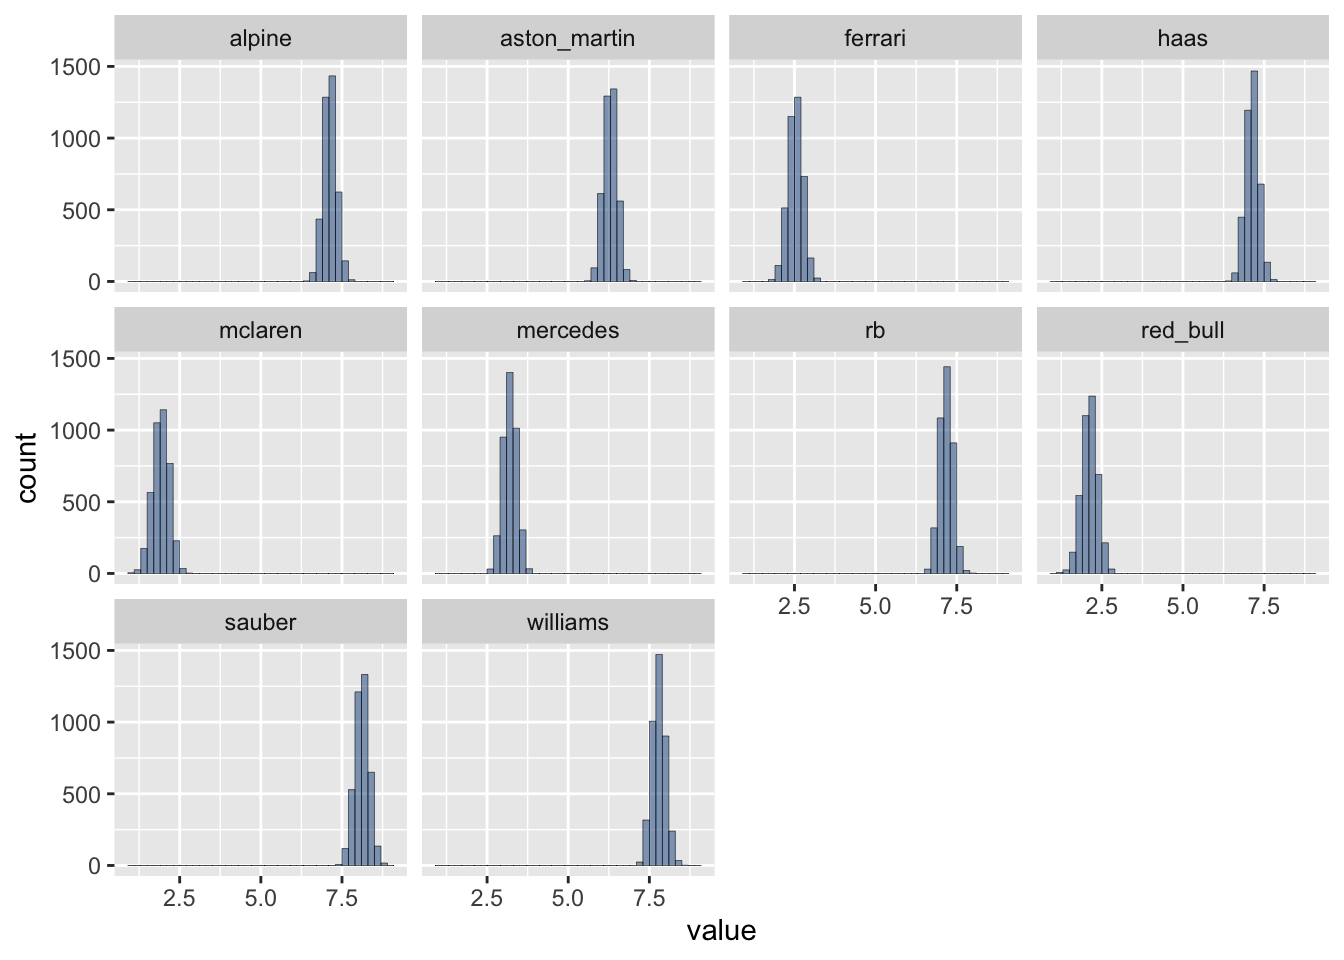
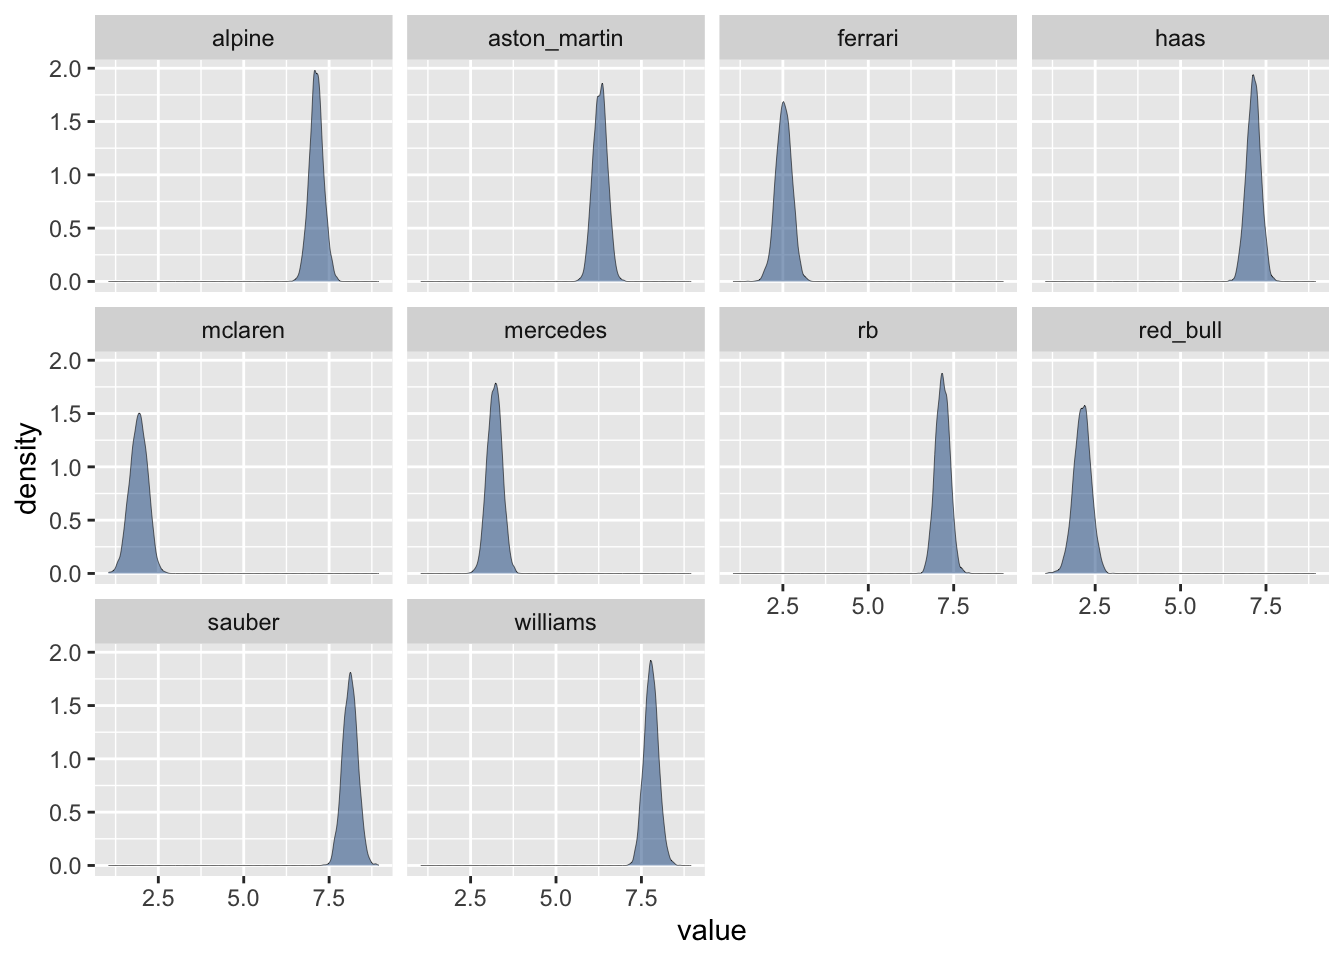
Try budget as a prior

diff --git a/docs/posts/f1-stan/f1.html b/docs/posts/f1-stan/f1.html
@@ -9,7 +9,7 @@
 <meta name="author" content="Chris Bowdon">
 <meta name="dcterms.date" content="2024-12-27">
 
-<title>Latent skill of F1 drivers: fun with Bayesian models – Chris Bowdon</title>
+<title>Latent performance of F1 cars and drivers: fun with Bayesian models – Chris Bowdon</title>
 <style>
 code{white-space: pre-wrap;}
 span.smallcaps{font-variant: small-caps;}
@@ -205,7 +205,7 @@ window.Quarto = {
 <header id="title-block-header" class="quarto-title-block default page-columns page-full">
   <div class="quarto-title-banner page-columns page-full">
     <div class="quarto-title column-body">
-      <h1 class="title">Latent skill of F1 drivers: fun with Bayesian models</h1>
+      <h1 class="title">Latent performance of F1 cars and drivers: fun with Bayesian models</h1>
                                 <div class="quarto-categories">
                 <div class="quarto-category">bayesian</div>
                 <div class="quarto-category">r</div>
@@ -247,6 +247,8 @@ window.Quarto = {
 
 
 <p>For a bit of fun, let’s try and model the performance of F1 drivers and constructors using Bayesian models. This is of course using data from the fantastic <a href="https://ergast.com/mrd/">Ergast</a>.</p>
+<p>My model will be an imitation of the f1-metrics model. We have latent variables of driver skill and car quality, which predict points/positions. However I never did get hold of the paper for that, and am instead following the amazing <a href="https://www.sumsar.net/blog/2013/07/modeling-match-results-in-la-liga-part-one/">Rasmus Bååth’s blog</a> where he models the latent skill of football teams in La Liga.</p>
+<p>I downloaded the CSVs from Ergast which we’ll first wrangle into shape. The weapon of choice is R and the tidyverse, since nothing else is quite so ergonomic for this type of analysis.</p>
 <div class="cell">
 <div class="sourceCode cell-code" id="cb1"><pre class="sourceCode r code-with-copy"><code class="sourceCode r"><span id="cb1-1"><a href="#cb1-1" aria-hidden="true" tabindex="-1"></a><span class="fu">library</span>(tidyverse)</span>
 <span id="cb1-2"><a href="#cb1-2" aria-hidden="true" tabindex="-1"></a></span>
@@ -266,7 +268,6 @@ window.Quarto = {
 <span id="cb1-16"><a href="#cb1-16" aria-hidden="true" tabindex="-1"></a>  <span class="fu">select</span>(raceId, gp, year, round, constructorRef, driverRef, q1, q2, q3, quali_position, grid, position) <span class="sc">|&gt;</span></span>
 <span id="cb1-17"><a href="#cb1-17" aria-hidden="true" tabindex="-1"></a>  <span class="fu">mutate</span>(<span class="at">position =</span> <span class="fu">ifelse</span>(position <span class="sc">==</span> <span class="st">"</span><span class="sc">\\</span><span class="st">N"</span>, <span class="cn">NA</span>, <span class="fu">as.numeric</span>(position)))</span></code><button title="Copy to Clipboard" class="code-copy-button"><i class="bi"></i></button></pre></div>
 </div>
-<p>My model is an imitation of the f1-metrics model. We have latent variables of driver skill and car quality, which predict points. However I never did get hold of the paper for that, and am instead following the amazing <a href="https://www.sumsar.net/blog/2013/07/modeling-match-results-in-la-liga-part-one/">Rasmus Bååth’s blog</a> where he models the latent skill of football teams in La Liga.</p>
 <p>In the interests of being educational - and because Lord knows I hate editing - I am writing this post as I go, including any blind-alleys and debugging.</p>
 <div class="cell">
 <div class="sourceCode cell-code" id="cb2"><pre class="sourceCode r code-with-copy"><code class="sourceCode r"><span id="cb2-1"><a href="#cb2-1" aria-hidden="true" tabindex="-1"></a>f2024 <span class="ot">&lt;-</span> f1data <span class="sc">|&gt;</span> <span class="fu">filter</span>(year <span class="sc">==</span> <span class="dv">2024</span>)</span>
@@ -305,7 +306,7 @@ Figure&nbsp;2: Histograms of driver and constructor performance in F1 2024.
 </div>
 </div>
 </div>
-<p>Points is simulated as a draw from a Poisson distribution parameterised by the driver performance and constructor performance.</p>
+<p>The model goes like this. Points are simulated as a draw from a Poisson distribution parameterised by the driver performance and constructor performance.</p>
 <p><span class="math display">\[
 \text{points} \sim \text{Poisson}(\text{perf}_{\text{drv}} + \text{perf}_{\text{ctr}})
 \]</span></p>
@@ -323,9 +324,9 @@ Figure&nbsp;2: Histograms of driver and constructor performance in F1 2024.
 <span id="cb3-2"><a href="#cb3-2" aria-hidden="true" tabindex="-1"></a>  ... <span class="co"># whew</span></span>
 <span id="cb3-3"><a href="#cb3-3" aria-hidden="true" tabindex="-1"></a>}</span></code><button title="Copy to Clipboard" class="code-copy-button"><i class="bi"></i></button></pre></div>
 </div>
-<section id="car-performance" class="level1">
-<h1>Car performance</h1>
-<p>Let’s start simpler, with a view of the car performance. Assume that at least one driver for every constructor maximised the car’s performance each weekend. THIS ISN’T TRUE. If Albon had a poor weekend, Sargeant wasn’t going to step up, as one of many examples on the grid in 2024. However it is a useful approximation.</p>
+<section id="constructor-performance" class="level1">
+<h1>Constructor performance</h1>
+<p>Let’s start simpler, with a view of just the constructor performance. Assume that at least one driver for every constructor maximised the car’s performance each weekend. THIS ISN’T TRUE. If Albon had a poor weekend, Sargeant wasn’t going to step up, as one of many examples on the grid in 2024. However it is a useful approximation that let’s us analyse just the constructor performance.</p>
 <div class="cell">
 <div class="sourceCode cell-code" id="cb4"><pre class="sourceCode r code-with-copy"><code class="sourceCode r"><span id="cb4-1"><a href="#cb4-1" aria-hidden="true" tabindex="-1"></a>ctr_positions <span class="ot">&lt;-</span> f2024 <span class="sc">|&gt;</span></span>
 <span id="cb4-2"><a href="#cb4-2" aria-hidden="true" tabindex="-1"></a>  <span class="fu">group_by</span>(round, constructorRef) <span class="sc">|&gt;</span></span>
@@ -405,7 +406,7 @@ model {
 <span id="cb7-7"><a href="#cb7-7" aria-hidden="true" tabindex="-1"></a>  <span class="at">constructorRef =</span> ctrs,</span>
 <span id="cb7-8"><a href="#cb7-8" aria-hidden="true" tabindex="-1"></a>)</span>
 <span id="cb7-9"><a href="#cb7-9" aria-hidden="true" tabindex="-1"></a></span>
-<span id="cb7-10"><a href="#cb7-10" aria-hidden="true" tabindex="-1"></a>do.stan <span class="ot">&lt;-</span> <span class="cf">function</span>(ctr_positions) {</span>
+<span id="cb7-10"><a href="#cb7-10" aria-hidden="true" tabindex="-1"></a>make_data_list <span class="ot">&lt;-</span> <span class="cf">function</span>(ctr_positions) {</span>
 <span id="cb7-11"><a href="#cb7-11" aria-hidden="true" tabindex="-1"></a>  tidy_ctr_posns <span class="ot">&lt;-</span> ctr_positions <span class="sc">|&gt;</span> <span class="fu">merge</span>(ctr_index)</span>
 <span id="cb7-12"><a href="#cb7-12" aria-hidden="true" tabindex="-1"></a></span>
 <span id="cb7-13"><a href="#cb7-13" aria-hidden="true" tabindex="-1"></a>  data_list <span class="ot">&lt;-</span> <span class="fu">list</span>(</span>
@@ -414,12 +415,15 @@ model {
 <span id="cb7-16"><a href="#cb7-16" aria-hidden="true" tabindex="-1"></a>    <span class="at">ctrs =</span> tidy_ctr_posns<span class="sc">$</span>constructorId,</span>
 <span id="cb7-17"><a href="#cb7-17" aria-hidden="true" tabindex="-1"></a>    <span class="at">positions =</span> tidy_ctr_posns<span class="sc">$</span>position</span>
 <span id="cb7-18"><a href="#cb7-18" aria-hidden="true" tabindex="-1"></a>  )</span>
-<span id="cb7-19"><a href="#cb7-19" aria-hidden="true" tabindex="-1"></a>  mod <span class="ot">&lt;-</span> <span class="fu">cmdstan_model</span>(<span class="st">"f1.stan"</span>, <span class="at">exe_file =</span> <span class="st">"f1.bin"</span>)</span>
-<span id="cb7-20"><a href="#cb7-20" aria-hidden="true" tabindex="-1"></a>  mod<span class="sc">$</span><span class="fu">sample</span>(data_list, <span class="at">seed =</span> <span class="dv">42</span>, <span class="at">show_messages =</span> <span class="cn">FALSE</span>)</span>
-<span id="cb7-21"><a href="#cb7-21" aria-hidden="true" tabindex="-1"></a>}</span>
-<span id="cb7-22"><a href="#cb7-22" aria-hidden="true" tabindex="-1"></a></span>
-<span id="cb7-23"><a href="#cb7-23" aria-hidden="true" tabindex="-1"></a>fit <span class="ot">&lt;-</span> <span class="fu">do.stan</span>(ctr_positions)</span>
-<span id="cb7-24"><a href="#cb7-24" aria-hidden="true" tabindex="-1"></a>fit</span></code><button title="Copy to Clipboard" class="code-copy-button"><i class="bi"></i></button></pre></div>
+<span id="cb7-19"><a href="#cb7-19" aria-hidden="true" tabindex="-1"></a>}</span>
+<span id="cb7-20"><a href="#cb7-20" aria-hidden="true" tabindex="-1"></a></span>
+<span id="cb7-21"><a href="#cb7-21" aria-hidden="true" tabindex="-1"></a>run_stan <span class="ot">&lt;-</span> <span class="cf">function</span>(data_list, <span class="at">model_file =</span> <span class="st">"f1.stan"</span>) {</span>
+<span id="cb7-22"><a href="#cb7-22" aria-hidden="true" tabindex="-1"></a>  mod <span class="ot">&lt;-</span> <span class="fu">cmdstan_model</span>(model_file, <span class="at">exe_file =</span> <span class="fu">str_c</span>(model_file, <span class="st">".bin"</span>))</span>
+<span id="cb7-23"><a href="#cb7-23" aria-hidden="true" tabindex="-1"></a>  mod<span class="sc">$</span><span class="fu">sample</span>(data_list, <span class="at">seed =</span> <span class="dv">42</span>, <span class="at">show_messages =</span> <span class="cn">FALSE</span>)</span>
+<span id="cb7-24"><a href="#cb7-24" aria-hidden="true" tabindex="-1"></a>}</span>
+<span id="cb7-25"><a href="#cb7-25" aria-hidden="true" tabindex="-1"></a></span>
+<span id="cb7-26"><a href="#cb7-26" aria-hidden="true" tabindex="-1"></a>fit <span class="ot">&lt;-</span> <span class="fu">run_stan</span>(<span class="fu">make_data_list</span>(ctr_positions))</span>
+<span id="cb7-27"><a href="#cb7-27" aria-hidden="true" tabindex="-1"></a>fit</span></code><button title="Copy to Clipboard" class="code-copy-button"><i class="bi"></i></button></pre></div>
 <div class="cell-output cell-output-stdout">
 <pre><code>  variable    mean  median   sd  mad      q5     q95 rhat ess_bulk ess_tail
  lp__      -442.52 -442.14 2.49 2.36 -446.98 -439.30 1.00     1479     1643
@@ -445,7 +449,7 @@ model {
 <span id="cb9-5"><a href="#cb9-5" aria-hidden="true" tabindex="-1"></a>  <span class="fu">ggplot</span>(<span class="fu">pivot_longer</span>(df, <span class="fu">all_of</span>(ctrs))) <span class="sc">+</span></span>
 <span id="cb9-6"><a href="#cb9-6" aria-hidden="true" tabindex="-1"></a>    <span class="fu">aes</span>(<span class="at">x =</span> value) <span class="sc">+</span></span>
 <span id="cb9-7"><a href="#cb9-7" aria-hidden="true" tabindex="-1"></a>    <span class="fu">facet_wrap</span>(<span class="fu">vars</span>(name)) <span class="sc">+</span></span>
-<span id="cb9-8"><a href="#cb9-8" aria-hidden="true" tabindex="-1"></a>    <span class="fu">geom_histogram</span>(<span class="at">fill =</span> <span class="st">"dodgerblue4"</span>, <span class="at">alpha =</span> <span class="fl">0.5</span>, <span class="at">colour =</span> <span class="st">"black"</span>, <span class="at">linewidth =</span> <span class="fl">0.1</span>, <span class="at">binwidth =</span> <span class="fl">0.2</span>)</span>
+<span id="cb9-8"><a href="#cb9-8" aria-hidden="true" tabindex="-1"></a>    <span class="fu">geom_density</span>(<span class="at">fill =</span> <span class="st">"dodgerblue4"</span>, <span class="at">alpha =</span> <span class="fl">0.5</span>, <span class="at">colour =</span> <span class="st">"black"</span>, <span class="at">linewidth =</span> <span class="fl">0.1</span>)</span>
 <span id="cb9-9"><a href="#cb9-9" aria-hidden="true" tabindex="-1"></a>}</span>
 <span id="cb9-10"><a href="#cb9-10" aria-hidden="true" tabindex="-1"></a></span>
 <span id="cb9-11"><a href="#cb9-11" aria-hidden="true" tabindex="-1"></a><span class="fu">plot_fit</span>(fit)</span></code><button title="Copy to Clipboard" class="code-copy-button"><i class="bi"></i></button></pre></div>
@@ -785,7 +789,7 @@ Figure&nbsp;5: Constructor position histograms after fixing NA sorting.
 </div>
 <p>That looks more like I’d expect. Let’s try Stan again.</p>
 <div class="cell">
-<div class="sourceCode cell-code" id="cb13"><pre class="sourceCode r code-with-copy"><code class="sourceCode r"><span id="cb13-1"><a href="#cb13-1" aria-hidden="true" tabindex="-1"></a>fit <span class="ot">&lt;-</span> <span class="fu">do.stan</span>(ctr_positions)</span>
+<div class="sourceCode cell-code" id="cb13"><pre class="sourceCode r code-with-copy"><code class="sourceCode r"><span id="cb13-1"><a href="#cb13-1" aria-hidden="true" tabindex="-1"></a>fit <span class="ot">&lt;-</span> <span class="fu">run_stan</span>(<span class="fu">make_data_list</span>(ctr_positions))</span>
 <span id="cb13-2"><a href="#cb13-2" aria-hidden="true" tabindex="-1"></a><span class="fu">plot_fit</span>(fit)</span></code><button title="Copy to Clipboard" class="code-copy-button"><i class="bi"></i></button></pre></div>
 <div class="cell-output-display">
 <div id="fig-updated-posterior-samples" class="quarto-float quarto-figure quarto-figure-center anchored">
@@ -800,10 +804,154 @@ Figure&nbsp;6: Posterior samples after fixing NA sorting.
 </div>
 </div>
 </div>
-<p>That is more intuitive: Red Bull is now much closer to McLaren and marginally ahead of Ferrari (despite coming third in the constructor’s championship).</p>
-<p>That’ll do for now, but there’s a lot we can improve about this model.</p>
+<p>That is more intuitive: Red Bull is now much closer to McLaren and marginally ahead of Ferrari (despite coming third in the constructor’s championship). This tells us that yes, Verstappen probably would have won the driver’s championship in a McLaren - but contrary to claims, not in a Ferrari, since it wasn’t faster than the Red Bull overall.</p>
+<p>There’s a lot we can improve about this model:</p>
+<ul>
+<li>Our priors for constructor performance are uniformative, and so our posteriors basically just reflect the data. Can we add some useful information to inform the model?</li>
+<li>The cars were regularly upgraded throughout the season, and received “big” updates at some races. There were also some key events like Newey leaving Red Bull. Can we model this?</li>
+</ul>
+</section>
+<section id="more-informative-priors" class="level1">
+<h1>More informative priors</h1>
+<p>What makes some constructors better than others? <del>Adrian Newey</del> Money. Let’s reflect this in our priors.</p>
+<p><span class="math display">\[
+\lambda_{\text{ctr}} \sim \text{Normal}(\text{budget}_\text{ctr}, \sigma)
+\]</span></p>
+<section id="budget-data" class="level2">
+<h2 class="anchored" data-anchor-id="budget-data">Budget data</h2>
+<p>This is a bit of a secret, so we have to estimate. We do know that the budget cap is 135M USD and it’s unlikely that anyone is operating below the cap. We also know that driver and top executive salaries are exempt from the cap. The top teams are spending about 100M USD on their drivers, and prior to the budget cap’s implementation likely invested in facilities that they can use for free (like wind tunnels).</p>
+<p>With that in mind, I asked 4o to search the web and estimate budgets for the teams. I sanity checked against <a href="https://www.blackbookmotorsport.com/content/f1-team-finances-2023-financial-results-revenue-profit-budget-cap/">this Blackbook Motorsport</a> article.</p>
+<p>These are probably reasonable estimates, but it makes sense to put a big variance on the priors to reflect the uncertainty.</p>
+<div class="cell">
+<div class="sourceCode cell-code" id="cb14"><pre class="sourceCode r code-with-copy"><code class="sourceCode r"><span id="cb14-1"><a href="#cb14-1" aria-hidden="true" tabindex="-1"></a>budgets <span class="ot">&lt;-</span> <span class="fu">tribble</span>(</span>
+<span id="cb14-2"><a href="#cb14-2" aria-hidden="true" tabindex="-1"></a>  <span class="sc">~</span>constructorRef, <span class="sc">~</span>budget,</span>
+<span id="cb14-3"><a href="#cb14-3" aria-hidden="true" tabindex="-1"></a>  <span class="st">"red_bull"</span>, <span class="dv">400</span>,</span>
+<span id="cb14-4"><a href="#cb14-4" aria-hidden="true" tabindex="-1"></a>  <span class="st">"mercedes"</span>, <span class="dv">400</span>,</span>
+<span id="cb14-5"><a href="#cb14-5" aria-hidden="true" tabindex="-1"></a>  <span class="st">"ferrari"</span>, <span class="dv">400</span>,</span>
+<span id="cb14-6"><a href="#cb14-6" aria-hidden="true" tabindex="-1"></a>  <span class="st">"mclaren"</span>, <span class="dv">250</span>,</span>
+<span id="cb14-7"><a href="#cb14-7" aria-hidden="true" tabindex="-1"></a>  <span class="st">"aston_martin"</span>, <span class="dv">250</span>,</span>
+<span id="cb14-8"><a href="#cb14-8" aria-hidden="true" tabindex="-1"></a>  <span class="st">"alpine"</span>, <span class="dv">200</span>,</span>
+<span id="cb14-9"><a href="#cb14-9" aria-hidden="true" tabindex="-1"></a>  <span class="st">"rb"</span>, <span class="dv">150</span>,</span>
+<span id="cb14-10"><a href="#cb14-10" aria-hidden="true" tabindex="-1"></a>  <span class="st">"haas"</span>, <span class="dv">150</span>,</span>
+<span id="cb14-11"><a href="#cb14-11" aria-hidden="true" tabindex="-1"></a>  <span class="st">"williams"</span>, <span class="dv">150</span>,</span>
+<span id="cb14-12"><a href="#cb14-12" aria-hidden="true" tabindex="-1"></a>  <span class="st">"sauber"</span>, <span class="dv">150</span></span>
+<span id="cb14-13"><a href="#cb14-13" aria-hidden="true" tabindex="-1"></a>) <span class="sc">|&gt;</span></span>
+<span id="cb14-14"><a href="#cb14-14" aria-hidden="true" tabindex="-1"></a>  <span class="fu">mutate</span>(</span>
+<span id="cb14-15"><a href="#cb14-15" aria-hidden="true" tabindex="-1"></a>    <span class="at">norm_budget =</span> <span class="dv">1</span> <span class="sc">-</span> budget <span class="sc">/</span> <span class="fu">max</span>(budget)</span>
+<span id="cb14-16"><a href="#cb14-16" aria-hidden="true" tabindex="-1"></a>  )</span>
+<span id="cb14-17"><a href="#cb14-17" aria-hidden="true" tabindex="-1"></a>knitr<span class="sc">::</span><span class="fu">kable</span>(budgets)</span></code><button title="Copy to Clipboard" class="code-copy-button"><i class="bi"></i></button></pre></div>
+<div id="tbl-ctr-budgets" class="cell quarto-float quarto-figure quarto-figure-center anchored">
+<figure class="quarto-float quarto-float-tbl figure">
+<figcaption class="quarto-float-caption-top quarto-float-caption quarto-float-tbl" id="tbl-ctr-budgets-caption-0ceaefa1-69ba-4598-a22c-09a6ac19f8ca">
+Table&nbsp;2: Constructor budget estimates (USD millions)
+</figcaption>
+<div aria-describedby="tbl-ctr-budgets-caption-0ceaefa1-69ba-4598-a22c-09a6ac19f8ca">
+<div class="cell-output-display">
+<table class="do-not-create-environment cell caption-top table table-sm table-striped small">
+<thead>
+<tr class="header">
+<th style="text-align: left;">constructorRef</th>
+<th style="text-align: right;">budget</th>
+<th style="text-align: right;">norm_budget</th>
+</tr>
+</thead>
+<tbody>
+<tr class="odd">
+<td style="text-align: left;">red_bull</td>
+<td style="text-align: right;">400</td>
+<td style="text-align: right;">0.000</td>
+</tr>
+<tr class="even">
+<td style="text-align: left;">mercedes</td>
+<td style="text-align: right;">400</td>
+<td style="text-align: right;">0.000</td>
+</tr>
+<tr class="odd">
+<td style="text-align: left;">ferrari</td>
+<td style="text-align: right;">400</td>
+<td style="text-align: right;">0.000</td>
+</tr>
+<tr class="even">
+<td style="text-align: left;">mclaren</td>
+<td style="text-align: right;">250</td>
+<td style="text-align: right;">0.375</td>
+</tr>
+<tr class="odd">
+<td style="text-align: left;">aston_martin</td>
+<td style="text-align: right;">250</td>
+<td style="text-align: right;">0.375</td>
+</tr>
+<tr class="even">
+<td style="text-align: left;">alpine</td>
+<td style="text-align: right;">200</td>
+<td style="text-align: right;">0.500</td>
+</tr>
+<tr class="odd">
+<td style="text-align: left;">rb</td>
+<td style="text-align: right;">150</td>
+<td style="text-align: right;">0.625</td>
+</tr>
+<tr class="even">
+<td style="text-align: left;">haas</td>
+<td style="text-align: right;">150</td>
+<td style="text-align: right;">0.625</td>
+</tr>
+<tr class="odd">
+<td style="text-align: left;">williams</td>
+<td style="text-align: right;">150</td>
+<td style="text-align: right;">0.625</td>
+</tr>
+<tr class="even">
+<td style="text-align: left;">sauber</td>
+<td style="text-align: right;">150</td>
+<td style="text-align: right;">0.625</td>
+</tr>
+</tbody>
+</table>
+</div>
+</div>
+</figure>
+</div>
+</div>
+<p>Let’s update our model and run Stan again.</p>
+<pre><code>data {
+  int&lt;lower=1&gt; n_ctrs;
+  int&lt;lower=1&gt; n_obs;
+  array[n_ctrs] int ctr_budgets;
+  array[n_obs] int&lt;lower=1, upper=10&gt; ctrs;
+  array[n_obs] int&lt;lower=1, upper=10&gt; positions;
+}
+parameters {
+  array[n_ctrs] real&lt;lower=1, upper=10&gt; lambda;
+}
+model {
+  lambda ~ normal(ctr_budgets, 1);
+  positions ~ normal(lambda[ctrs], 1) T[1, 10];
+
+  // the above "distribution" syntax is equivalent to:
+  //target += uniform_lpdf(lambda | 1, 10);
+  //target += poisson_lpmf(positions | lambda[ctrs]);
+}
+</code></pre>
+<div class="cell">
+<div class="sourceCode cell-code" id="cb16"><pre class="sourceCode r code-with-copy"><code class="sourceCode r"><span id="cb16-1"><a href="#cb16-1" aria-hidden="true" tabindex="-1"></a>data_list_b <span class="ot">&lt;-</span> <span class="fu">make_data_list</span>(ctr_positions)</span>
+<span id="cb16-2"><a href="#cb16-2" aria-hidden="true" tabindex="-1"></a>data_list_b<span class="sc">$</span>ctr_budgets <span class="ot">=</span> <span class="dv">10</span> <span class="sc">*</span> <span class="fu">arrange</span>(budgets, constructorRef)<span class="sc">$</span>norm_budget</span>
+<span id="cb16-3"><a href="#cb16-3" aria-hidden="true" tabindex="-1"></a>fit.b <span class="ot">&lt;-</span> <span class="fu">run_stan</span>(data_list_b, <span class="at">model_file =</span> <span class="st">"f1.b.stan"</span>)</span>
+<span id="cb16-4"><a href="#cb16-4" aria-hidden="true" tabindex="-1"></a></span>
+<span id="cb16-5"><a href="#cb16-5" aria-hidden="true" tabindex="-1"></a><span class="fu">plot_fit</span>(fit.b)</span></code><button title="Copy to Clipboard" class="code-copy-button"><i class="bi"></i></button></pre></div>
+<div class="cell-output-display">
+<div>
+<figure class="figure">
+<p><img src="f1_files/figure-html/unnamed-chunk-13-1.png" class="img-fluid figure-img" width="672"></p>
+</figure>
+</div>
+</div>
+</div>
+<p>This hasn’t made much difference. McLaren has eased back towards Red Bull because their budget is smaller. Though if we’re trying to show constructor performance, you could say they did a lot better than Red Bull relative to their budget. Was budget a bad choice for the prior?</p>
+<p>More on this later.</p>
 
 
+</section>
 </section>
 
 </main> <!-- /main -->

diff --git a/docs/index.html b/docs/index.html
@@ -232,7 +232,7 @@ window.Quarto = {
 
 <div class="quarto-listing quarto-listing-container-default" id="listing-listing">
 <div class="list quarto-listing-default">
-<div class="quarto-post image-right" data-index="0" data-categories="YmF5ZXNpYW4scixmMQ==" data-listing-date-sort="1735257600000" data-listing-file-modified-sort="1735295710830" data-listing-date-modified-sort="NaN" data-listing-reading-time-sort="6" data-listing-word-count-sort="1157">
+<div class="quarto-post image-right" data-index="0" data-categories="YmF5ZXNpYW4scixmMQ==" data-listing-date-sort="1735257600000" data-listing-file-modified-sort="1735301345763" data-listing-date-modified-sort="NaN" data-listing-reading-time-sort="8" data-listing-word-count-sort="1566">
 <div class="thumbnail">
 <p><a href="./posts/f1-stan/f1.html" class="no-external"></a></p><a href="./posts/f1-stan/f1.html" class="no-external">
 <p class="card-img-top"><img src="posts/f1-stan/f1_files/figure-html/fig-data-2024-1.png"  class="thumbnail-image card-img"/></p>
@@ -240,7 +240,7 @@ window.Quarto = {
 </div>
 <div class="body">
 <h3 class="no-anchor listing-title">
-<a href="./posts/f1-stan/f1.html" class="no-external">Latent skill of F1 drivers: fun with Bayesian models</a>
+<a href="./posts/f1-stan/f1.html" class="no-external">Latent performance of F1 cars and drivers: fun with Bayesian models</a>
 </h3>
 <div class="listing-subtitle">
 <a href="./posts/f1-stan/f1.html" class="no-external"></a>

diff --git a/docs/proxy.html b/docs/proxy.html
@@ -215,7 +215,7 @@ pre > code.sourceCode > span > a:first-child::before { text-decoration: underlin
 <section id="python-2" class="level2">
 <h2 class="anchored" data-anchor-id="python-2">Python 2</h2>
 <p>This works in Python 2.6 and 2.7. In Python 3 the principles are the same but <code>urllib</code> has been reorganized.</p>
-<div id="cbabad65" class="cell">
+<div id="f0a4527d" class="cell">
 <div class="sourceCode cell-code" id="cb2"><pre class="sourceCode python code-with-copy"><code class="sourceCode python"><span id="cb2-1"><a href="#cb2-1" aria-hidden="true" tabindex="-1"></a>  <span class="im">import</span> logging</span>
 <span id="cb2-2"><a href="#cb2-2" aria-hidden="true" tabindex="-1"></a>  <span class="im">import</span> ssl</span>
 <span id="cb2-3"><a href="#cb2-3" aria-hidden="true" tabindex="-1"></a>  <span class="im">import</span> urllib2</span>
